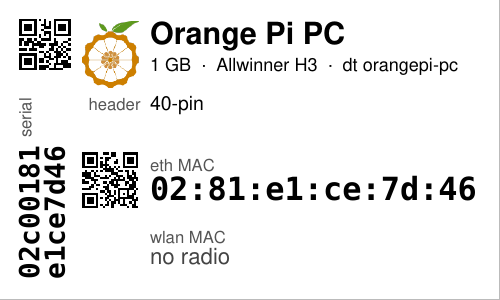
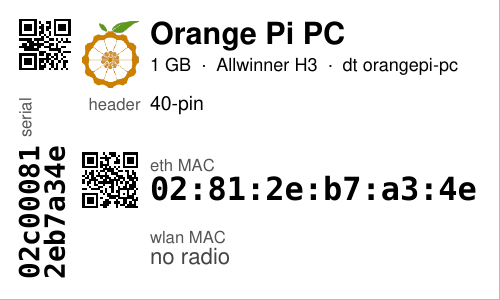
Orange Pi: the fixtures are the board the fleet actually has
The fleet's Orange Pi is on welland.fpgas.online: pi-sw2-p22, reached as
pi@10.21.2.22 through the jump host. Everything Orange Pi in the tests and
the docstrings came from a board that is no longer there, so it is replaced
by what this one reports, probed 2026-09-11.

The SID words are now the ones in the board's own e-fuses, which makes the
CRC-32 check worth something: U-Boot's rule over those words reproduces the
device-tree serial 02c000812eb7a34e exactly, and the MAC it derives,
02:81:2e:b7:a3:4e, is the one the interface has. Before, the words had been
solved backwards from the serial, so the test only checked the rule against
itself. The reviewer's worry that an older sunxi_sid kernel might hand the
words over the other way round does not apply to this board.

It also netboots the pool's Raspbian armhf root, the same one the Pi rigs
use, so there is no /etc/armbian-release on it and the probe reports none.
A separate test keeps the Armbian parser covered, since Armbian is what an
Orange Pi normally runs.

The fixture's host is renamed opi1pc-b -> pi-sw2-p22, which sorts it among
the pool rigs rather than first, so the label ordering moves with it.

Claude-Session: https://claude.ai/code/session_017ibyTnuBCnNY7ACKAkdRiT

diff --git a/tests/test_probe_collect.py b/tests/test_probe_collect.py
@@ -88,28 +88,28 @@ def _pi5_tree(root):
 
 
 def _orange_pi_pc_tree(root):
-    """An Orange Pi PC on Armbian trixie, as captured from opi1pc-b on
-    2026-07-08: the device tree U-Boot hands the kernel (model, compatible,
-    the serial# it built from the SID), the 32-bit kernel's cpuinfo (which
-    repeats that serial and prints a meaningless Revision), MemTotal, the
-    Armbian release file, the sunxi-sid nvmem, the H3's EMAC on
-    dwmac-sun8i, and the CDC-ECM gadget interface. The SID words 1-3 are
-    chosen so U-Boot's CRC-32 rule lands on the captured serial (the real
-    words were never read; the board is off the network)."""
+    """The pool's Orange Pi PC, as captured from pi-sw2-p22 on 2026-09-11:
+    the device tree U-Boot hands the kernel (model, compatible, the serial#
+    it built from the SID), the 32-bit kernel's cpuinfo (which repeats that
+    serial and prints a meaningless Revision), MemTotal, the sunxi-sid
+    nvmem, the H3's EMAC on dwmac-sun8i, and a CDC-ECM gadget interface.
+
+    The SID words are the ones actually in the board's e-fuses, so the
+    CRC-32 rule below is checked against hardware rather than against
+    itself: U-Boot's derivation reproduces the device-tree serial exactly.
+    There is no /etc/armbian-release: this board netboots the pool's
+    Raspbian armhf root, the same one the Pi rigs use."""
     _w(root, "/proc/device-tree/model", "Xunlong Orange Pi PC\0")
     _w(root, "/proc/device-tree/compatible", "xunlong,orangepi-pc\0allwinner,sun8i-h3\0")
-    _w(root, "/proc/device-tree/serial-number", "02c00181e1ce7d46\0")
+    _w(root, "/proc/device-tree/serial-number", "02c000812eb7a34e\0")
     _w(root, "/proc/cpuinfo",
        "processor\t: 0\nmodel name\t: ARMv7 Processor rev 5 (v7l)\nCPU part\t: 0xc07\n"
-       "Hardware\t: Allwinner sun8i Family\nRevision\t: 0000\nSerial\t\t: 02c00181e1ce7d46\n")
-    _w(root, "/proc/meminfo", "MemTotal:        1015636 kB\nMemFree:          612340 kB\n")
-    _w(root, "/etc/armbian-release",
-       "# PLEASE DO NOT EDIT THIS FILE\nBOARD=orangepipc\nBOARD_NAME=\"Orange Pi PC\"\n"
-       "BOARDFAMILY=sun8i\nLINUXFAMILY=sunxi\nARCH=arm\nBOARD_TYPE=csc\nBRANCH=current\n"
-       "VERSION=26.8.0-trunk.170\n")
+       "Hardware\t: Allwinner sun8i Family\nRevision\t: 0000\nSerial\t\t: 02c000812eb7a34e\n")
+    _w(root, "/proc/meminfo", "MemTotal:        1016504 kB\nMemFree:          612340 kB\n")
+    # the e-fuses as read off the board, little-endian words
     _w(root, "/sys/bus/nvmem/devices/sunxi-sid0/nvmem",
-       bytes.fromhex("8101c0025f4a0b0c9e8c1e8c274e02f8") + b"\0" * 240)
-    _w(root, "/sys/class/net/eth0/address", "02:81:e1:ce:7d:46\n")
+       bytes.fromhex("8100c0022046d03514880579940a1c40") + b"\0" * 240)
+    _w(root, "/sys/class/net/eth0/address", "02:81:2e:b7:a3:4e\n")
     _w(root, "/sys/class/net/eth0/speed", "100\n")
     emac = root / "sys/devices/platform/soc/1c30000.ethernet"
     emac.mkdir(parents=True)
@@ -143,14 +143,13 @@ def test_collect_orange_pi_pc(opi_root):
     assert d["board"] == "opi"
     assert d["model"] == "Xunlong Orange Pi PC"
     assert d["compatible"] == ["xunlong,orangepi-pc", "allwinner,sun8i-h3"]
-    assert d["serial"] == "02c00181e1ce7d46"
-    assert d["cpuinfo_serial"] == "02c00181e1ce7d46"
-    assert d["sid"] == ["0x02c00181", "0x0c0b4a5f", "0x8c1e8c9e", "0xf8024e27"]
-    assert d["sid_serial"] == "02c00181e1ce7d46", "U-Boot's rule reproduces the DT serial"
+    assert d["serial"] == "02c000812eb7a34e"
+    assert d["cpuinfo_serial"] == "02c000812eb7a34e"
+    assert d["sid"] == ["0x02c00081", "0x35d04620", "0x79058814", "0x401c0a94"]
+    assert d["sid_serial"] == "02c000812eb7a34e", "U-Boot's rule reproduces the DT serial"
     assert d["revision"] is None, "cpuinfo's 0000 is not a revision code"
-    assert d["mem_kb"] == 1015636
-    assert d["armbian"]["VERSION"] == "26.8.0-trunk.170"
-    assert d["armbian"]["BOARD_NAME"] == "Orange Pi PC"
+    assert d["mem_kb"] == 1016504
+    assert d["armbian"] is None, "the pool's Orange Pis netboot Raspbian, not Armbian"
     assert d["hat_fw"] is None
     assert d["hat_eeproms"] == {}
     assert d["i2c1"] is None
@@ -168,19 +167,18 @@ def test_collect_orange_pi_pc(opi_root):
     v = probe.verdict(d)
     assert v["header"] == ["40-pin header not probed: no HAT ID EEPROM convention on this board"]
     assert "no power sensing" in v["power"]
-    assert any(e.startswith("Allwinner SID 0x02c00181") for e in v["evidence"])
-    assert any(e.startswith("Armbian 26.8.0-trunk.170 on board id orangepipc")
-               for e in v["evidence"])
+    assert any(e.startswith("Allwinner SID 0x02c00081") for e in v["evidence"])
+    assert not any(e.startswith("Armbian") for e in v["evidence"])
     s = v["summary"]
     assert s["model"] == "Xunlong Orange Pi PC"
-    assert s["serial"] == "02c00181e1ce7d46"
+    assert s["serial"] == "02c000812eb7a34e"
     assert s["revision"] is None
     assert s["compatible"] == "xunlong,orangepi-pc allwinner,sun8i-h3"
     assert s["memory"] == "1 GB"
     assert s["header"] == []
     assert s["hat_uuid"] is None
     assert s["power_class"] == "undetermined"
-    assert s["macs"] == [{"kind": "eth", "mac": "02:81:e1:ce:7d:46"}]
+    assert s["macs"] == [{"kind": "eth", "mac": "02:81:2e:b7:a3:4e"}]
     assert s["usb_net"] == []
     assert s["rtc_battery"] is None
     assert s["fan"] is None
@@ -196,11 +194,11 @@ def test_orange_pi_serial_falls_back_to_the_sid(opi_root):
     _w(root, "/proc/cpuinfo", "Hardware\t: Allwinner sun8i Family\nRevision\t: 0000\n"
                               "Serial\t\t: 0000000000000000\n")
     d = probe.collect()
-    assert d["serial"] == "02c00181e1ce7d46"
+    assert d["serial"] == "02c000812eb7a34e"
     assert d["cpuinfo_serial"] == "0000000000000000"
     v = probe.verdict(d)
-    assert v["summary"]["serial"] == "02c00181e1ce7d46"
-    assert probe.headline(d) == "Xunlong Orange Pi PC  serial 02c00181e1ce7d46"
+    assert v["summary"]["serial"] == "02c000812eb7a34e"
+    assert probe.headline(d) == "Xunlong Orange Pi PC  serial 02c000812eb7a34e"
 
 
 @pytest.mark.parametrize(("kb", "want"), [
@@ -511,3 +509,19 @@ def test_tinytapeout_main_prints_text_and_json(fake_root, capsys, monkeypatch):
     assert "tt     : FPGA breakout" in capsys.readouterr().out
     tinytapeout.describe([])
     assert "none found" in capsys.readouterr().out
+
+
+def test_armbian_release_is_read_when_a_board_has_one(opi_root):
+    """The pool's Orange Pis netboot Raspbian, so none of them carries
+    /etc/armbian-release; a board that does is still reported, since
+    Armbian is what an Orange Pi normally runs."""
+    root, _calls = opi_root
+    _w(root, "/etc/armbian-release",
+       "# PLEASE DO NOT EDIT THIS FILE\nBOARD=orangepipc\nBOARD_NAME=\"Orange Pi PC\"\n"
+       "BOARDFAMILY=sun8i\nLINUXFAMILY=sunxi\nARCH=arm\nBOARD_TYPE=csc\nBRANCH=current\n"
+       "VERSION=26.8.0-trunk.170\n")
+    d = probe.collect()
+    assert d["armbian"]["VERSION"] == "26.8.0-trunk.170"
+    assert d["armbian"]["BOARD_NAME"] == "Orange Pi PC"
+    assert any(e.startswith("Armbian 26.8.0-trunk.170 on board id orangepipc")
+               for e in probe.verdict(d)["evidence"])

diff --git a/tests/test_labels.py b/tests/test_labels.py
@@ -40,14 +40,14 @@ def test_board_record_zero_has_no_wired_port(docs):
 
 
 def test_board_record_orange_pi_pc(docs):
-    p = labels.board_record(docs["opi1pc-b"])
+    p = labels.board_record(docs["pi-sw2-p22"])
     assert p.kind == "opi"
     assert p.short == "Orange Pi PC"
     assert p.title == "Orange Pi PC"
     assert p.subtitle == "1 GB  ·  Allwinner H3  ·  dt orangepi-pc"
     assert p.mark == "orange-pi.png"
-    assert p.serial == "02c00181e1ce7d46"
-    assert p.macs == (("eth", "02:81:e1:ce:7d:46"),)
+    assert p.serial == "02c000812eb7a34e"
+    assert p.macs == (("eth", "02:81:2e:b7:a3:4e"),)
     assert p.wlan_note == "no radio"
     assert p.eth_note is None
     assert p.header == ()
@@ -130,8 +130,9 @@ def test_all_labels_order_and_count(docs):
     kinds = [k for k, _t, _d, _r in labels.all_labels(docs, labels.KINDS)]
     # FPGA boards first in sorted-host order, then Tiny Tapeout boards, then
     # one board per document (the Orange Pi host sorts first), then adapters
-    assert kinds == ["arty", "acorn", "netv2", "tt", "tt", "opi",
-                     "rpi", "rpi", "rpi", "rpi", "rpi", "rpi", "usb"]
+    # the Orange Pi's host, pi-sw2-p22, sorts among the pool rigs
+    assert kinds == ["arty", "acorn", "netv2", "tt", "tt",
+                     "rpi", "rpi", "opi", "rpi", "rpi", "rpi", "rpi", "usb"]
     titles = [t for k, t, _d, _r in labels.all_labels(docs, {"tt"})]
     assert titles == ["TT06 E6614C311B7A7A37", "TTIHP25a E66360B8A3C1D5F2"]
     only_opi = [k for k, _t, _d, _r in labels.all_labels(docs, {"opi"})]
@@ -162,7 +163,7 @@ def test_render_and_decode_every_qr(data_dir, tmp_path):
         "e4:5f:01:96:f8:a5", "e4:5f:01:96:f8:a7",         # arty host
         "00:e0:4c:36:0b:0a", "b8:27:eb:02:a3:24",         # zero with bonnet
         "98:fe:54:13:f5:75",                              # acorn host
-        "02:81:e1:ce:7d:46",                              # the Orange Pi PC
+        "02:81:2e:b7:a3:4e",                              # the Orange Pi PC
         "dc:a6:32:8f:2b:11", "dc:a6:32:8f:2b:12",         # the Tiny Tapeout host
         "00:0e:c6:82:b5:e1",                              # the dongle
         "https://tinytapeout.com/chips/tt06/",            # the chip pages
@@ -171,7 +172,7 @@ def test_render_and_decode_every_qr(data_dir, tmp_path):
         # the board serials, as a small QR at the top of each board label's spine
         "d88100008543dc30", "000000004fe3e7e4", "10000000ce8e3593",
         "000000005157f671", "c36b093f773d46b8", "100000003a7e1c9b",
-        "02c00181e1ce7d46",
+        "02c000812eb7a34e",
     }
     assert got == want
 
@@ -181,7 +182,7 @@ def test_list_and_names_cli(data_dir, capsys):
     out = capsys.readouterr().out
     assert "netv2-grove" in out
     assert "arty-hawk" in out
-    assert "opi    Orange Pi PC 1 GB 02c00181e1ce7d46" in out
+    assert "opi    Orange Pi PC 1 GB 02c000812eb7a34e" in out
     assert "rpi    Pi 5 4 GB d88100008543dc30" in out
     assert "tt     TT06 E6614C311B7A7A37" in out
     assert cli_main(["labels", "--data", str(data_dir), "--list", "--only", "tt"]) == 0
@@ -225,7 +226,7 @@ def test_a_board_with_no_label_design_is_skipped(docs, capsys):
     "other") is skipped with a note, not fatal to the whole run."""
     from dataclasses import replace
 
-    doc = copy.deepcopy(docs["opi1pc-b"])
+    doc = copy.deepcopy(docs["pi-sw2-p22"])
     doc.summary = replace(doc.summary, model="MinnowBoard Turbot", compatible="")
     with_other = dict(docs, minnow=doc)
     kinds = [k for k, _t, _d, _r in labels.all_labels(with_other, {"rpi", "opi"})]

diff --git a/tests/test_core.py b/tests/test_core.py
@@ -98,7 +98,7 @@ def test_identify_pi_from_revision_and_orange_pi_from_device_tree(docs):
     zero = boards.identify(docs["rpiz-serial"].summary)
     assert zero.wired is False
     assert zero.radio_derivable is True
-    opi = boards.identify(docs["opi1pc-b"].summary)
+    opi = boards.identify(docs["pi-sw2-p22"].summary)
     assert (opi.kind, opi.short, opi.title) == ("opi", "Orange Pi PC", "Orange Pi PC")
     assert opi.subtitle == "1 GB  ·  Allwinner H3  ·  dt orangepi-pc"
     assert opi.mark == "orange-pi.png"
@@ -127,11 +127,8 @@ def test_identify_orange_pi_without_captured_details():
 
 
 def test_sunxi_mac_follows_uboot_rule():
-    # opi1pc-b, both captured: the one full check the fleet allows
-    assert boards.sunxi_mac("02c00181e1ce7d46") == "02:81:e1:ce:7d:46"
-    # opi1pc-a: only the MAC was captured (02:81:3c:1a:db:71); the rule says
-    # its serial ends in 3c1adb71 and, like every H3, has 0x81 in byte 3
-    assert boards.sunxi_mac("02c001813c1adb71") == "02:81:3c:1a:db:71"
+    # pi-sw2-p22, read off the board: SID -> serial -> MAC, all three agree
+    assert boards.sunxi_mac("02c000812eb7a34e") == "02:81:2e:b7:a3:4e"
     with pytest.raises(ValueError, match="sunxi serial"):
         boards.sunxi_mac("abcd")
 
@@ -435,10 +432,10 @@ def test_summary_round_trips_tinytapeout_boards():
 def test_load_collected(data_dir):
     docs = load_collected(data_dir)
     assert set(docs) == {"rpi5-netv2", "pi-sw1-p10", "pi-sw2-p16", "rpiz-serial", "pi-sw2-p47",
-                         "opi1pc-b", "rpi4-tt"}
-    assert docs["opi1pc-b"].summary.compatible == "xunlong,orangepi-pc allwinner,sun8i-h3"
-    assert docs["opi1pc-b"].summary.memory == "1 GB"
-    assert docs["opi1pc-b"].summary.revision == ""
+                         "pi-sw2-p22", "rpi4-tt"}
+    assert docs["pi-sw2-p22"].summary.compatible == "xunlong,orangepi-pc allwinner,sun8i-h3"
+    assert docs["pi-sw2-p22"].summary.memory == "1 GB"
+    assert docs["pi-sw2-p22"].summary.revision == ""
     assert docs["rpi5-netv2"].summary.fpga[0].identity == "0x00742c4e63b9085c"
     assert [b.shuttle for b in docs["rpi4-tt"].summary.tinytapeout] == ["tt06", "ttihp25a"]
     (data_dir / "bad.json").write_text("{}")

diff --git a/tests/conftest.py b/tests/conftest.py
@@ -77,18 +77,18 @@ ACORN_HOST = _doc(
     [{"kind": "eth", "mac": "98:fe:54:13:f5:75"}], [], True, True, 3000,
 )
 
-# An Orange Pi PC on Armbian trixie, from the values captured from opi1pc-b
-# on 2026-07-08: no revision code, no HAT convention, no power sensing, a
-# SoC serial from U-Boot and the eth0 MAC U-Boot derives from it.
+# The pool's Orange Pi PC, probed on pi-sw2-p22 on 2026-09-11: no revision
+# code, no HAT convention, no power sensing, a SoC serial from U-Boot and
+# the eth0 MAC U-Boot derives from it. It netboots the pool's Raspbian
+# armhf root like the Pi rigs do, so there is no Armbian release to read.
 OPI_PC = _doc(
-    "Xunlong Orange Pi PC", "02c00181e1ce7d46", None, [], "undetermined", [],
-    [{"kind": "eth", "mac": "02:81:e1:ce:7d:46"}], [], None, None, None,
+    "Xunlong Orange Pi PC", "02c000812eb7a34e", None, [], "undetermined", [],
+    [{"kind": "eth", "mac": "02:81:2e:b7:a3:4e"}], [], None, None, None,
     compatible="xunlong,orangepi-pc allwinner,sun8i-h3", memory="1 GB",
 )
-OPI_PC.update(mem_kb=1015636, sid=None, sid_serial=None, cpuinfo_serial="02c00181e1ce7d46",
-              armbian={"BOARD": "orangepipc", "BOARD_NAME": "Orange Pi PC",
-                       "BOARDFAMILY": "sun8i", "LINUXFAMILY": "sunxi",
-                       "VERSION": "26.8.0-trunk.170"})
+OPI_PC.update(mem_kb=1016504, cpuinfo_serial="02c000812eb7a34e", armbian=None,
+              sid=["0x02c00081", "0x35d04620", "0x79058814", "0x401c0a94"],
+              sid_serial="02c000812eb7a34e")
 OPI_PC["verdict"]["header"] = [
     "40-pin header not probed: no HAT ID EEPROM convention on this board"]
 
@@ -159,7 +159,7 @@ RAW = {
     "pi-sw2-p16": ARTY_HOST,
     "rpiz-serial": ZERO_BONNET,
     "pi-sw2-p47": ACORN_HOST,
-    "opi1pc-b": OPI_PC,
+    "pi-sw2-p22": OPI_PC,
     "rpi4-tt": TT_HOST,
 }
 

diff --git a/src/rpi_hwid/probe.py b/src/rpi_hwid/probe.py
@@ -75,8 +75,8 @@ Other boards: the Orange Pi PC (Xunlong, Allwinner H3, Armbian)
     the probe records them and reproduces U-Boot's rule (chip-id word, then
     a CRC-32 of the other three) as a fallback and a cross-check. U-Boot
     derives eth0's MAC from the same serial: 02, the serial's fourth byte,
-    then its last four (02:81:e1:ce:7d:46 from 02c00181e1ce7d46 on
-    opi1pc-b), so the MAC is not independent evidence. RAM is MemTotal
+    then its last four (02:81:2e:b7:a3:4e from 02c000812eb7a34e on
+    pi-sw2-p22), so the MAC is not independent evidence. RAM is MemTotal
     rounded up to the fitted size, the Armbian release is
     /etc/armbian-release, and the Pi-only pokes (dtparam, vcgencmd, the ID
     bus, the I2C-1 scan, the bonnet rule) are skipped: an H3 has no PMIC,

diff --git a/src/rpi_hwid/boards.py b/src/rpi_hwid/boards.py
@@ -20,10 +20,10 @@ way it is on the Broadcom-OUI Pis: U-Boot (board/sunxi/board.c,
 
     eth0 = 02 : serial[6:8] : serial[8:16]
 
-i.e. the serial's fourth byte, then its last four. Held on opi1pc-b, the
-one fleet board whose serial was captured (02c00181e1ce7d46 gives
-02:81:e1:ce:7d:46); opi1pc-a's recorded MAC 02:81:3c:1a:db:71 fits the
-rule (an H3's chip-id word ends in 0x81) but its serial was never read.
+i.e. the serial's fourth byte, then its last four. Held on pi-sw2-p22
+(02c000812eb7a34e gives 02:81:2e:b7:a3:4e), whose SID, serial and MAC were
+all read off the board, so the derivation is confirmed end to end rather
+than against itself.
 """
 
 from __future__ import annotations
